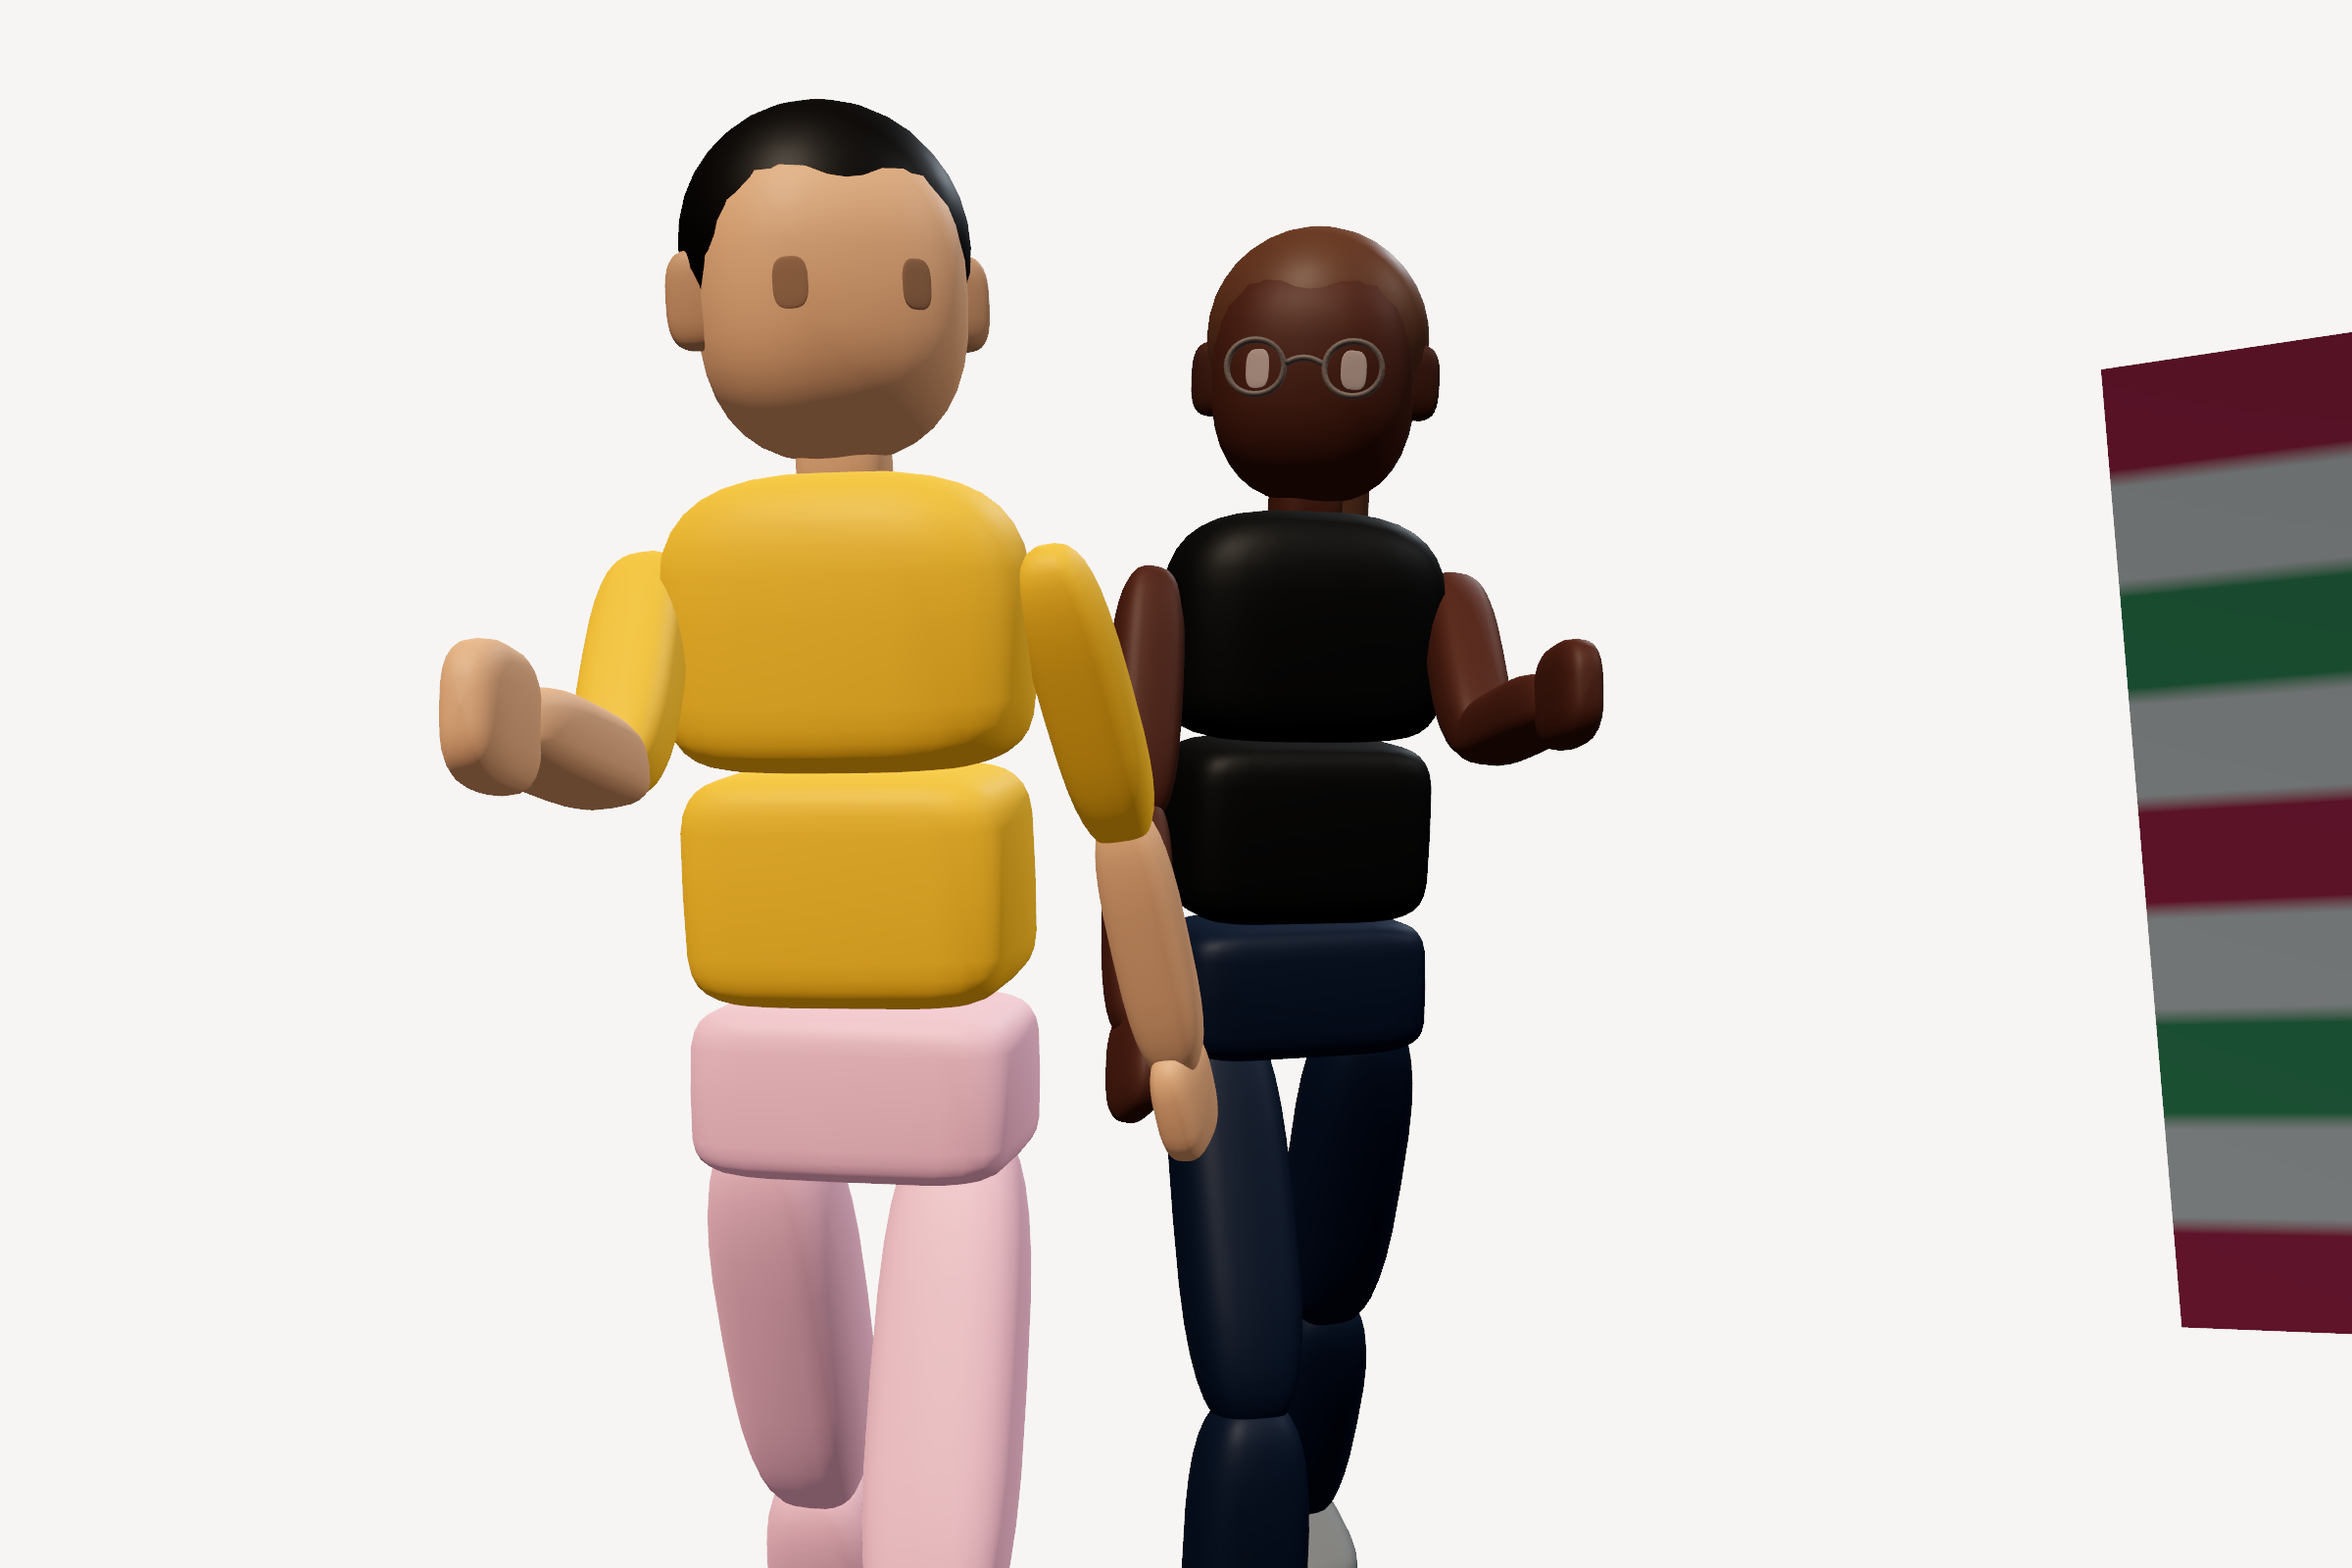
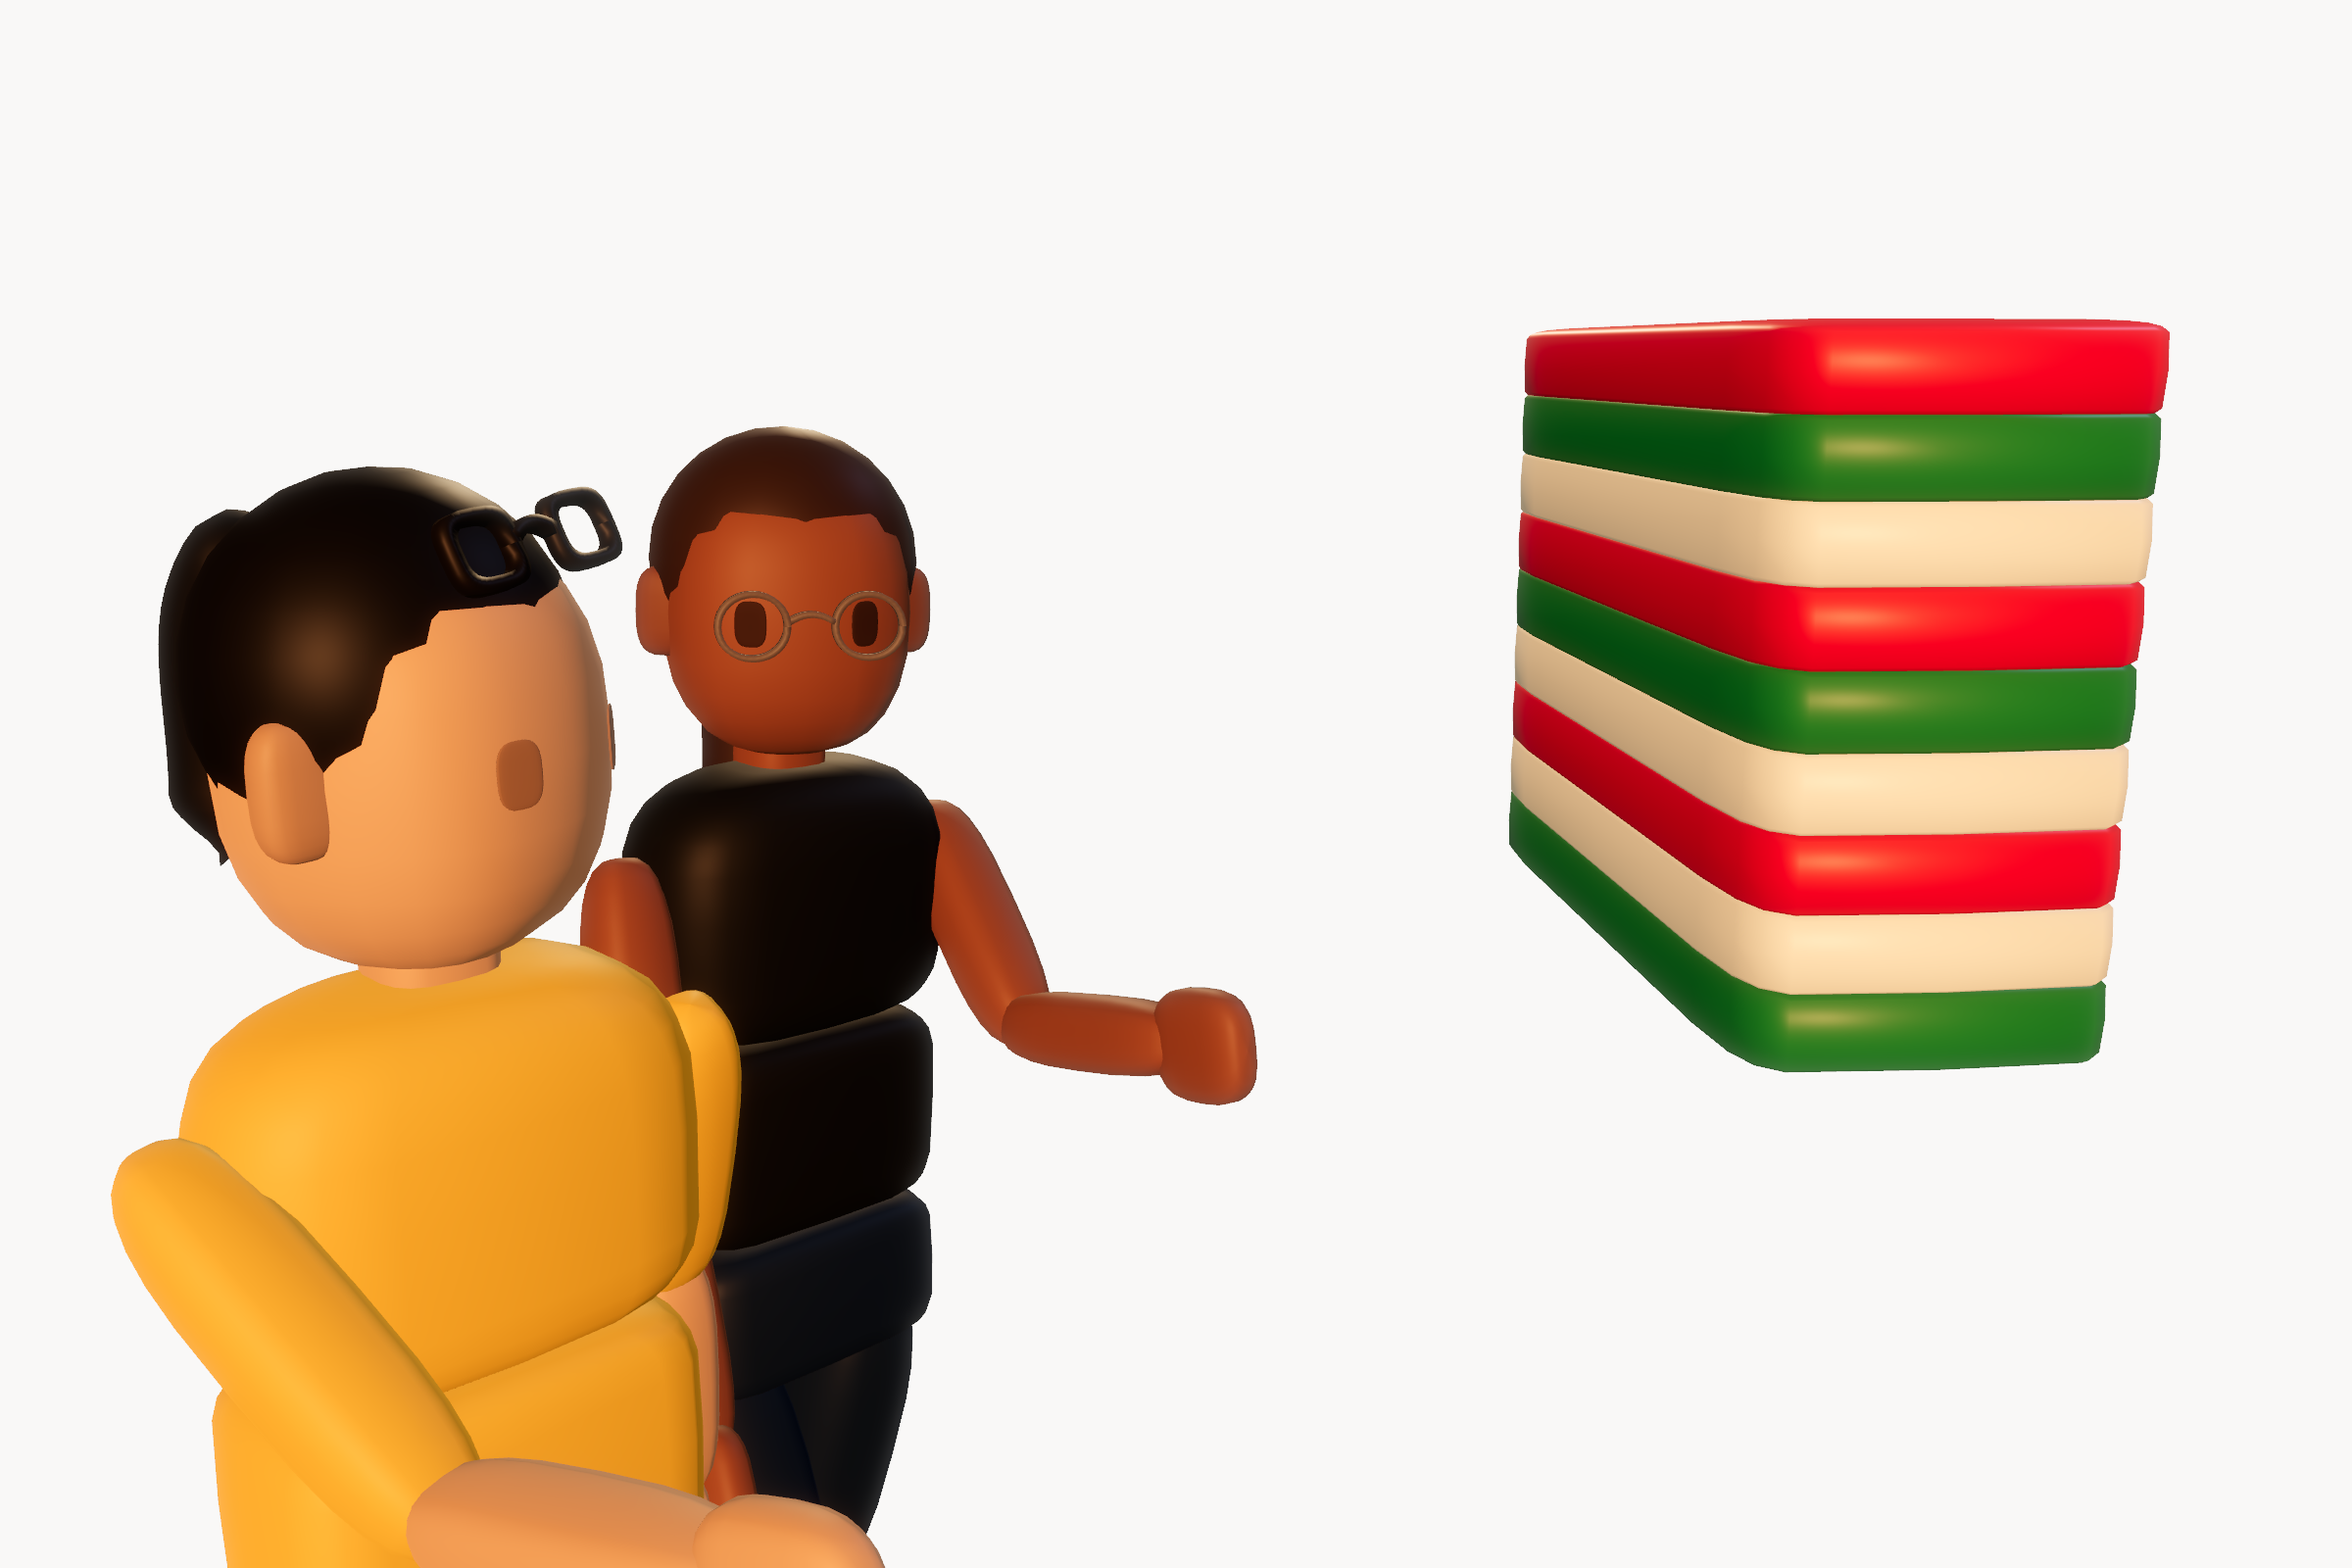
Refine landing page copy/layout and re-shoot the hero photo
- About section copy rewritten (per direct instruction), the inline link
  on "Kueh (or kuih in Malay)" dropped in favor of plain italics, and the
  now-unused .about-link CSS removed.
- Hero section height reduced to 88svh so its bottom edge sits above the
  browser window instead of exactly filling it; hero-artwork/img switched
  to an explicit --hero-height variable since percentage heights don't
  resolve against a min-height-only parent.
- Enter button widened in two passes (124px -> 168px -> 220px).
- hero_photo.gd (the capture tool photographing the two figures + kueh
  lapis) went through many rounds of camera/pose/lighting/geometry
  iteration this session: true FPS-style strafing (translate, not
  re-aim-at-a-point) instead of an accidental orbit, independently
  randomized stride phases so the figures' gaits aren't mirrored, the kueh
  rebuilt as nine stacked SuperEgg segments (this project's own primitive)
  instead of a hand-rolled SurfaceTool box after that read as flat rather
  than a real solid, golden-hour lighting toned down from an initial
  over-saturated pass, and both figures' bodies now share one facing
  direction with the conversational read living in head turns only.

diff --git a/index.html b/index.html
@@ -34,8 +34,8 @@
       <div class="about-inner">
         <h2 id="about-title">What is Kueh Machine?</h2>
         <div class="about-copy">
-          <p>Kueh Machine is the result of a two-month learning and development project run by a design team in Singapore. We explored emerging web development tools by making small projects, meeting for regular check-ins, and sharing feedback as we built. This site brings those experiments together as a collection you can keep exploring, with the Kuehverse connecting them in one shared world.</p>
-          <p><a class="about-link" href="https://www.roots.gov.sg/ich-landing/ich/kueh" target="_blank" rel="noopener">Kueh (or kuih in Malay)</a> are sweet and savoury snacks that are part of Singapore’s food culture and are found across Southeast Asia. They come in many shapes, colours, and flavours, often using ingredients such as glutinous rice, coconut, gula melaka, and pandan. The nonsense pairing “Kueh Machine” gave everyone a shared starting point without prescribing an outcome. It could be read literally, treated as a meeting of tradition and technology, or taken somewhere else entirely.</p>
+          <p>Kueh Machine is the result of a two-month experiment conducted by a Singapore-based design team. We explored emerging web development tools by each making small projects, checking in along the way and sharing feedback as we built. This site brings those projects together as a collection.</p>
+          <p><em>Kueh</em> (or <em>kuih</em> in Malay) are sweet and savoury snacks that are part of Singapore’s food culture and are found across Southeast Asia. They come in many shapes, colours, and flavours, often using ingredients such as glutinous rice, coconut, gula melaka, and pandan. The nonsense pairing “Kueh Machine” was the designers’ shared starting point without prescribing an outcome. It could be read literally, treated as a meeting of tradition and technology, or taken somewhere else entirely.</p>
         </div>
         <a class="about-brief-link" href="/brief/">The original project brief</a>
       </div>

diff --git a/styles/landing.css b/styles/landing.css
@@ -80,12 +80,22 @@ a:focus-visible {
 
 .hero {
   position: relative;
-  min-height: 100svh;
+  /* Shorter than the full viewport per direct instruction, so the section's
+     bottom edge sits above the bottom of the browser window (the next
+     section peeks in) instead of exactly filling it -- the hero image below
+     crops to fit via object-fit: cover, same as it already does on any
+     viewport whose aspect ratio doesn't match the photo's own.
+     --hero-height is shared with .hero-artwork/img below rather than
+     chaining percentage heights off this min-height: a percentage height on
+     a child doesn't resolve against a parent sized only by min-height, so
+     each of the three needs this same explicit value directly. */
+  --hero-height: 88svh;
+  min-height: var(--hero-height);
 }
 
 .hero-artwork {
   width: 100%;
-  min-height: 100svh;
+  height: var(--hero-height);
   overflow: hidden;
   background: #f4f2ed;
 }
@@ -93,8 +103,7 @@ a:focus-visible {
 .hero-artwork img {
   display: block;
   width: 100%;
-  height: 100%;
-  min-height: 100svh;
+  height: var(--hero-height);
   object-fit: cover;
   /* The composition puts the two figures in the left half and the kueh
      lapis on the right -- biasing the crop left keeps both readable on a
@@ -112,7 +121,7 @@ a:focus-visible {
 
 .hero-enter-link {
   display: inline-flex;
-  min-width: 124px;
+  min-width: 220px;
   align-items: center;
   justify-content: center;
   padding: 11px 28px;
@@ -165,14 +174,6 @@ a:focus-visible {
 }
 
 .about-copy p { margin: 0; }
-
-.about-link {
-  color: var(--color-primary-strong);
-  text-decoration-thickness: 1px;
-  text-underline-offset: 4px;
-}
-
-.about-link:hover { color: var(--color-text-on-surface); }
 
 .about-brief-link {
   display: inline-flex;
@@ -296,9 +297,6 @@ a:focus-visible {
   :root { --landing-header-height: 64px; }
 
   .landing-header { padding: 0 20px; }
-
-  .hero,
-  .hero-artwork { min-height: 100svh; }
 
   .about-batik { display: none; }
 
